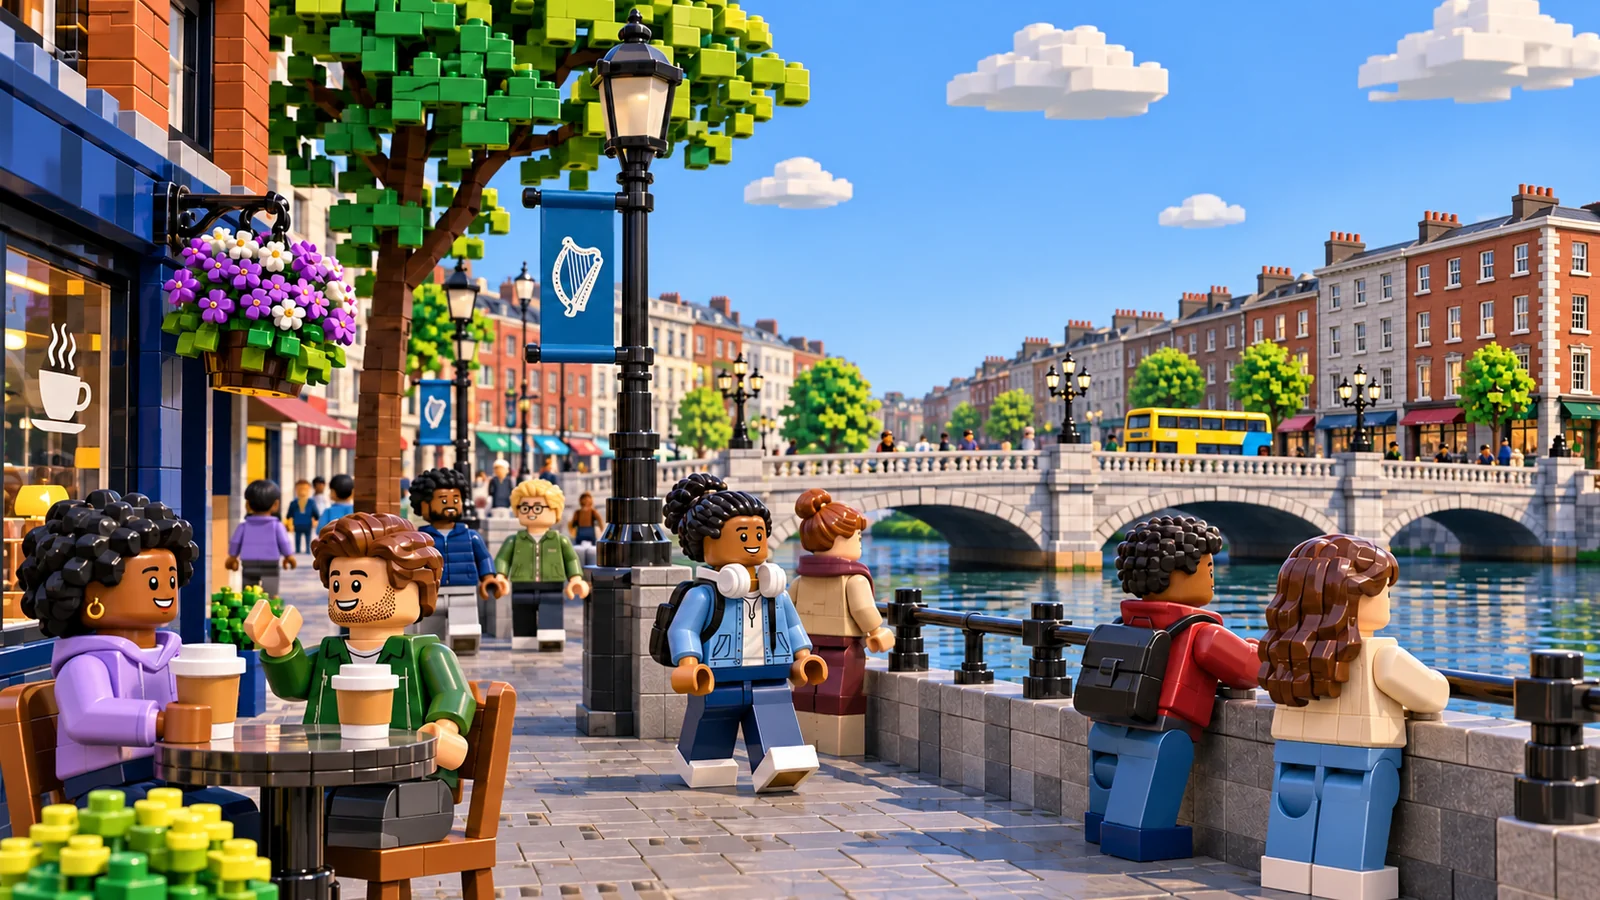
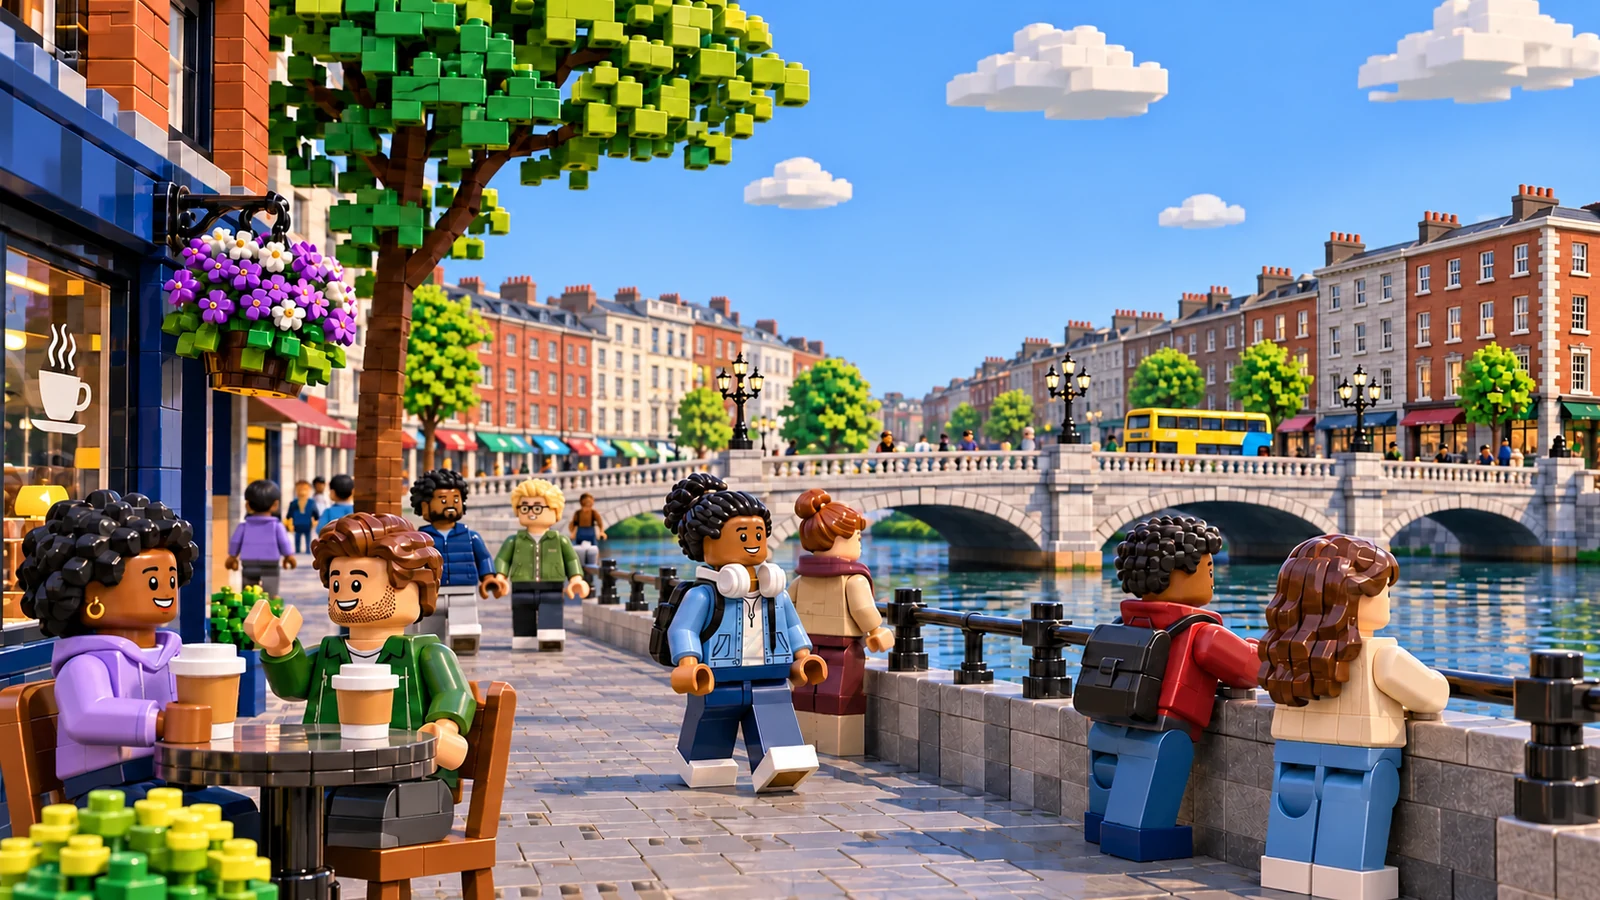
Remove single-lantern lamps from the quayside scene

diff --git a/garda/index.html b/garda/index.html
@@ -13,7 +13,7 @@
 <link rel="stylesheet" href="../accessibility/styles.css">
 <link rel="stylesheet" href="../accessibility/perspectives.css">
 <link rel="stylesheet" href="../accessibility/responsive.css">
-<script type="module" src="./app.mjs?v=landing-art-order-1"></script>
+<script type="module" src="./app.mjs?v=quayside-lamps-1"></script>
 <link rel="stylesheet" href="../assets/brand/landing.css?v=landing-about-copy-1">
 <link rel="stylesheet" href="../assets/brand/buttons.css?v=learning-flow-2">
 <link rel="stylesheet" href="../encounters/refinements.css?v=scene-above-context-1">
@@ -27,7 +27,7 @@
 <link rel="stylesheet" href="../learning/support.css?v=organisation-logos-1">
 <link rel="stylesheet" href="../assets/brand/uimproved.css?v=dublin-accuracy-2">
 <script type="module" src="../assets/brand/uimproved.mjs?v=1"></script>
-<link rel="stylesheet" href="../assets/brand/approved-backgrounds.css?v=dublin-accuracy-1">
+<link rel="stylesheet" href="../assets/brand/approved-backgrounds.css?v=quayside-lamps-1">
 <link rel="stylesheet" href="../encounters/scene-labels.css?v=situation-images-2">
 <link rel="stylesheet" href="../encounters/turn-headshot.css?v=phlow-1">
 <link rel="stylesheet" href="../assets/brand/site-polish.css?v=footer-compact-1">

diff --git a/index.html b/index.html
@@ -13,7 +13,7 @@
 <link rel="stylesheet" href="./accessibility/styles.css">
 <link rel="stylesheet" href="./accessibility/perspectives.css">
 <link rel="stylesheet" href="./accessibility/responsive.css">
-<script type="module" src="./app.mjs?v=landing-art-order-1"></script>
+<script type="module" src="./app.mjs?v=quayside-lamps-1"></script>
 <link rel="stylesheet" href="./assets/brand/landing.css?v=landing-about-copy-1">
 <link rel="stylesheet" href="./assets/brand/buttons.css?v=learning-flow-2">
 <link rel="stylesheet" href="./encounters/refinements.css?v=scene-above-context-1">
@@ -27,7 +27,7 @@
 <link rel="stylesheet" href="./learning/support.css?v=organisation-logos-1">
 <link rel="stylesheet" href="./assets/brand/uimproved.css?v=dublin-accuracy-2">
 <script type="module" src="./assets/brand/uimproved.mjs?v=1"></script>
-<link rel="stylesheet" href="./assets/brand/approved-backgrounds.css?v=dublin-accuracy-1">
+<link rel="stylesheet" href="./assets/brand/approved-backgrounds.css?v=quayside-lamps-1">
 <link rel="stylesheet" href="./encounters/scene-labels.css?v=situation-images-2">
 <link rel="stylesheet" href="./encounters/turn-headshot.css?v=phlow-1">
 <link rel="stylesheet" href="./assets/brand/site-polish.css?v=footer-compact-1">

diff --git a/assets/brand/approved-backgrounds.css b/assets/brand/approved-backgrounds.css
@@ -19,5 +19,5 @@
 @media(forced-colors:active){.scene-location[data-approved-art]{border:1px solid CanvasText}}
 @media print{.scene-location[data-approved-art]{break-inside:avoid}}
 /* The invitation and perspective cards each show a different approved scene. */
-.play-invitation {--invitation-art:url('../dublin-approved/quayside-960.webp?v=dublin-accuracy-1')}
+.play-invitation {--invitation-art:url('../dublin-approved/quayside-960.webp?v=quayside-lamps-1')}
 html[data-perspective="garda"] .play-invitation {--invitation-art:url('../dublin-approved/suburban-street-960.webp?v=dublin-accuracy-1')}

diff --git a/docs/APPROVED-DUBLIN-BACKGROUNDS.md b/docs/APPROVED-DUBLIN-BACKGROUNDS.md
@@ -6,7 +6,7 @@
 | --- | --- | --- |
 | Option 2 GPO encounter | Both homepages, `assets/heroes/garda-*.webp` | The GPO has six Ionic columns. The Spire stands on the O’Connell Street centre island across the road, with its base visible. Straight-arm streetlights replace the ornate lamps. [National Inventory of Architectural Heritage](https://www.buildingsofireland.ie/buildings-search/building/50010528/general-post-office-gpo-oconnell-street-lower-princes-street-north-henry-street-dublin-1-dublin-city) · [Visit Dublin](https://www.visitdublin.com/the-spire) · [Dublin City Film Office](https://www.dublincityfilmoffice.ie/filming-location/oconnell-street-sraid-ui-chonaill/) |
 | Suburban bus shelter | Bus-stop encounters, `bus-stop-*.webp` | The left-side doors face the waiting pavement. The bus shows route 14 to Dundrum Luas and the pole shows stop 1047, Beaumont Avenue in Churchtown. The shelter and surrounding houses are illustrative. [Transport for Ireland stop 1047](https://journeyplanner-production.transportforireland.ie/departures?stopId=8250DB001047&wrapper=false) |
-| Quayside café | Community encounters, `quayside-*.webp` | O’Connell Bridge retains its three stone arches, limestone balustrade and triple lamps. The near skyline shows quay buildings. The Custom House sits farther downstream on the north quay, outside the illustrated view. [National Inventory of Architectural Heritage](https://www.buildingsofireland.ie/buildings-search/building/50060552/oconnell-bridge-dublin-1-dublin) · [Dublin City Centre Transport Plan](https://www.dublincity.ie/sites/default/files/2024-04/09-dublin-city-centre-transport-plan-public-realm-technical-note.pdf) |
+| Quayside café | Community encounters, `quayside-*.webp` | O’Connell Bridge retains its three stone arches, limestone balustrade and triple lamps. The single-lantern quay posts and their attached banners have been removed. The near skyline shows quay buildings. The Custom House sits farther downstream on the north quay, outside the illustrated view. [National Inventory of Architectural Heritage](https://www.buildingsofireland.ie/buildings-search/building/50060552/oconnell-bridge-dublin-1-dublin) · [Dublin City Centre Transport Plan](https://www.dublincity.ie/sites/default/files/2024-04/09-dublin-city-centre-transport-plan-public-realm-technical-note.pdf) |
 | Suburban terraced street | Street encounters, `suburban-street-*.webp` | Traffic approaches to the right of the centre line in this view and recedes to its left, following Irish left-hand traffic. The street is fictional. [Road Safety Authority](https://www.rsa.ie/road-safety/road-users/tourists) |
 | GPO and Spire crowd | Earlier Garda homepage card, `gpo-city-*.webp` | Six Ionic columns and the separate centre-island Spire base. [National Inventory of Architectural Heritage](https://www.buildingsofireland.ie/buildings-search/building/50010528/general-post-office-gpo-oconnell-street-lower-princes-street-north-henry-street-dublin-1-dublin-city) · [Visit Dublin](https://www.visitdublin.com/the-spire) |
 | Ha’penny Bridge | Earlier public homepage card, `liffey-bridge-*.webp` | The white cast-iron footbridge spans the Liffey in a single shallow arch. The eastward skyline shows the receding quays. [Dublin City Film Office](https://dublincityfilmoffice.ie/filming-location/hapenny-bridge/) |
